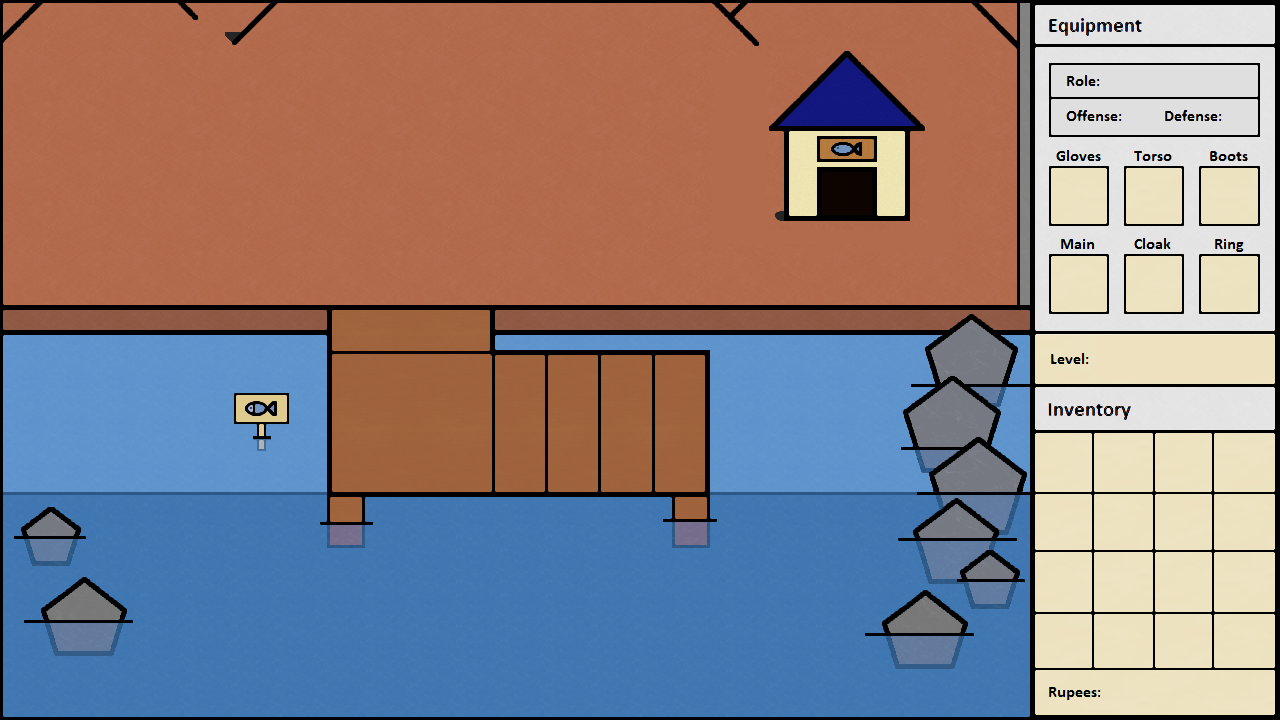
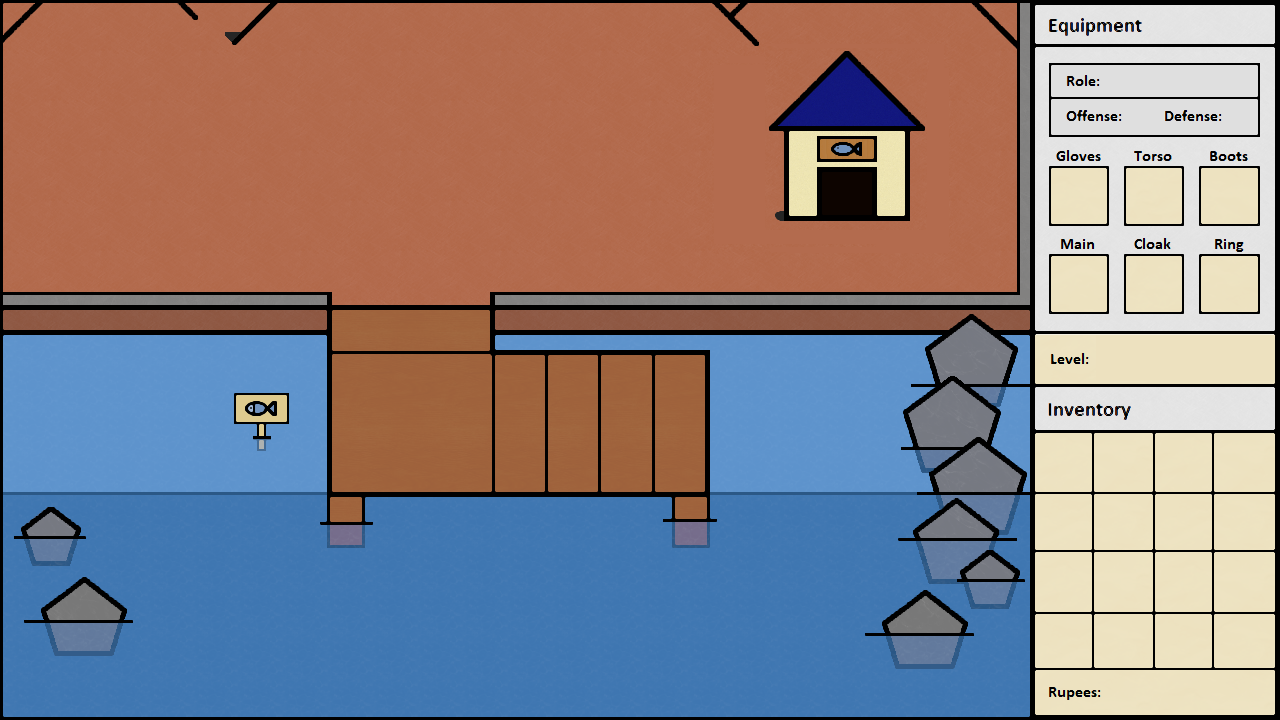
Adding and fixing things that need to be added and fixed.

Changed region(s): [[0.375, 0.3972, 0.8125, 0.4278], [0.0, 0.3972, 0.2812, 0.4278]]

diff --git a/main.py b/main.py
@@ -1726,8 +1726,8 @@ class PlayerAmuna(pygame.sprite.Sprite):
                 self.y_coordinate = 80
             if self.x_coordinate < 335 and self.y_coordinate < 325 or \
                     self.x_coordinate > 490 and self.y_coordinate < 325:
-                if self.y_coordinate > 305:
-                    self.y_coordinate = 305
+                if self.y_coordinate > 295:
+                    self.y_coordinate = 295
             if self.y_coordinate > 315:
                 if self.x_coordinate < 340:
                     self.x_coordinate = 340
@@ -1774,13 +1774,17 @@ class PlayerAmuna(pygame.sprite.Sprite):
                 self.x_coordinate = 390
             if 360 < self.y_coordinate < 525 < self.x_coordinate < 640:
                 self.x_coordinate = 640
-            if 205 > self.x_coordinate > 175 and 170 < self.y_coordinate < 725:
+            if 205 > self.x_coordinate > 175 and 170 < self.y_coordinate < 510:
+                self.x_coordinate = 205
+            if 205 > self.x_coordinate > 175 and 570 < self.y_coordinate < 725:
                 self.x_coordinate = 205
             if 200 < self.x_coordinate < 435 and 170 < self.y_coordinate < 190:
                 self.y_coordinate = 190
             if 5 < self.x_coordinate < 175 and 465 < self.y_coordinate > 565:
                 self.y_coordinate = 565
-            if 825 < self.x_coordinate < 845 and 170 < self.y_coordinate < 725:
+            if 825 < self.x_coordinate < 845 and 170 < self.y_coordinate < 510:
+                self.x_coordinate = 825
+            if 825 < self.x_coordinate < 845 and 570 < self.y_coordinate < 725:
                 self.x_coordinate = 825
             if 600 < self.x_coordinate < 840 and 170 < self.y_coordinate < 190:
                 self.y_coordinate = 190
@@ -4117,8 +4121,8 @@ class PlayerNuldar(pygame.sprite.Sprite):
                 self.y_coordinate = 80
             if self.x_coordinate < 335 and self.y_coordinate < 325 or \
                     self.x_coordinate > 490 and self.y_coordinate < 325:
-                if self.y_coordinate > 305:
-                    self.y_coordinate = 305
+                if self.y_coordinate > 295:
+                    self.y_coordinate = 295
             if self.y_coordinate > 315:
                 if self.x_coordinate < 340:
                     self.x_coordinate = 340
@@ -4165,13 +4169,17 @@ class PlayerNuldar(pygame.sprite.Sprite):
                 self.x_coordinate = 390
             if 360 < self.y_coordinate < 525 < self.x_coordinate < 640:
                 self.x_coordinate = 640
-            if 205 > self.x_coordinate > 175 and 170 < self.y_coordinate < 725:
+            if 205 > self.x_coordinate > 175 and 170 < self.y_coordinate < 510:
+                self.x_coordinate = 205
+            if 205 > self.x_coordinate > 175 and 570 < self.y_coordinate < 725:
                 self.x_coordinate = 205
             if 200 < self.x_coordinate < 435 and 170 < self.y_coordinate < 190:
                 self.y_coordinate = 190
             if 5 < self.x_coordinate < 175 and 465 < self.y_coordinate > 565:
                 self.y_coordinate = 565
-            if 825 < self.x_coordinate < 845 and 170 < self.y_coordinate < 725:
+            if 825 < self.x_coordinate < 845 and 170 < self.y_coordinate < 510:
+                self.x_coordinate = 825
+            if 825 < self.x_coordinate < 845 and 570 < self.y_coordinate < 725:
                 self.x_coordinate = 825
             if 600 < self.x_coordinate < 840 and 170 < self.y_coordinate < 190:
                 self.y_coordinate = 190
@@ -6509,8 +6517,8 @@ class PlayerSorae(pygame.sprite.Sprite):
                 self.y_coordinate = 80
             if self.x_coordinate < 335 and self.y_coordinate < 325 or \
                     self.x_coordinate > 490 and self.y_coordinate < 325:
-                if self.y_coordinate > 305:
-                    self.y_coordinate = 305
+                if self.y_coordinate > 295:
+                    self.y_coordinate = 295
             if self.y_coordinate > 315:
                 if self.x_coordinate < 340:
                     self.x_coordinate = 340
@@ -6557,13 +6565,17 @@ class PlayerSorae(pygame.sprite.Sprite):
                 self.x_coordinate = 390
             if 360 < self.y_coordinate < 525 < self.x_coordinate < 640:
                 self.x_coordinate = 640
-            if 205 > self.x_coordinate > 175 and 170 < self.y_coordinate < 725:
+            if 205 > self.x_coordinate > 175 and 170 < self.y_coordinate < 510:
+                self.x_coordinate = 205
+            if 205 > self.x_coordinate > 175 and 570 < self.y_coordinate < 725:
                 self.x_coordinate = 205
             if 200 < self.x_coordinate < 435 and 170 < self.y_coordinate < 190:
                 self.y_coordinate = 190
             if 5 < self.x_coordinate < 175 and 465 < self.y_coordinate > 565:
                 self.y_coordinate = 565
-            if 825 < self.x_coordinate < 845 and 170 < self.y_coordinate < 725:
+            if 825 < self.x_coordinate < 845 and 170 < self.y_coordinate < 510:
+                self.x_coordinate = 825
+            if 825 < self.x_coordinate < 845 and 570 < self.y_coordinate < 725:
                 self.x_coordinate = 825
             if 600 < self.x_coordinate < 840 and 170 < self.y_coordinate < 190:
                 self.y_coordinate = 190
@@ -8483,12 +8495,12 @@ if __name__ == "__main__":
     dungeon_chest_ramps_rect = pygame.Rect((530, 625,), (90, 10))
     dungeon_chest_small_marrow = UiElement("dungeon chest ramps small", 857, 600, graphic_dict["chest_small"])
 
-    item_block_1 = Item("item block 1", "block", 105, 175, graphic_dict["item_block"], 0)
-    item_block_2 = Item("item block 2", "block", 650, 48, graphic_dict["item_block"], 0)
-    item_block_3 = Item("item block 3", "block", 710, 530, graphic_dict["item_block"], 0)
-    item_block_4 = Item("item block 4", "block", 950, 500, graphic_dict["item_block"], 0)
-    item_block_5 = Item("item block 5", "block", 80, 500, graphic_dict["item_block"], 0)
-    item_block_6 = Item("item block 6", "block", 100, 475, graphic_dict["item_block"], 0)
+    item_block_1 = Item("item block 1", "block", 115, 211, graphic_dict["item_block"], 0)
+    item_block_2 = Item("item block 2", "block", 595, 45, graphic_dict["item_block"], 0)
+    item_block_3 = Item("item block 3", "block", 675, 510, graphic_dict["item_block"], 0)
+    item_block_4 = Item("item block 4", "block", 875, 480, graphic_dict["item_block"], 0)
+    item_block_5 = Item("item block 5", "block", 155, 480, graphic_dict["item_block"], 0)
+    item_block_6 = Item("item block 6", "block", 150, 500, graphic_dict["item_block"], 0)
     item_block_7 = Item("item block 7", "block", 500, 600, graphic_dict["item_block"], 0)
     item_block_8 = Item("item block 8", "block", 650, 600, graphic_dict["item_block"], 0)
     item_block_9 = Item("item block 9", "block", 925, 175, graphic_dict["item_block"], 0)
@@ -13799,7 +13811,7 @@ if __name__ == "__main__":
                                                                  vanish_overlay, basic_fish_counter,
                                                                  better_fish_counter, even_better_fish_counter,
                                                                  best_fish_counter, apothis_gift, bandiles_highlighted,
-                                                                 bandiles_reset, ore_highlighted, ore_reset)
+                                                                 bandiles_reset, ore_highlighted)
                     else:
                         mines_returned = zone_mines.korlok_mines(pygame, game_window, graphic_dict, player,
                                                                  korlok_mines_bg, korlok_overworld_music,
@@ -22819,6 +22831,9 @@ if __name__ == "__main__":
                                 game_window.blit(npc_dionte_interaction.surf, npc_dionte_interaction.rect)
                                 npc_name_plate.update(675, 165, graphic_dict["npc_name_plate"])
                             if current_npc_interacting.name == "Omoku":
+                                if player.quest_complete["kart troubles"]:
+                                    quest_visual.update(861, 295, graphic_dict["kart_full"])
+                                    game_window.blit(quest_visual.surf, quest_visual.rect)
                                 game_window.blit(npc_omoku_interaction.surf, npc_omoku_interaction.rect)
                                 npc_name_plate.update(606, 193, graphic_dict["npc_name_plate"])
                             if current_npc_interacting.name == "Leyre":
